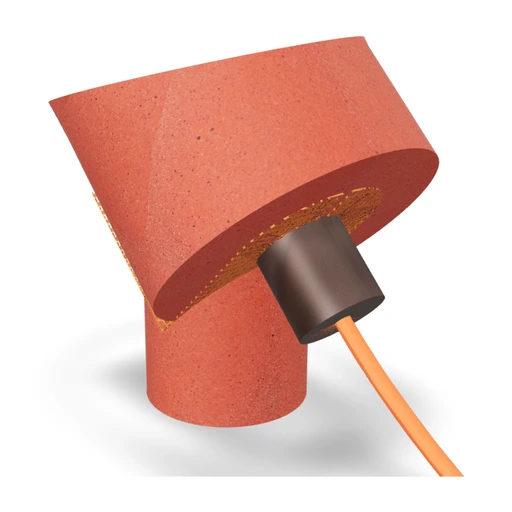
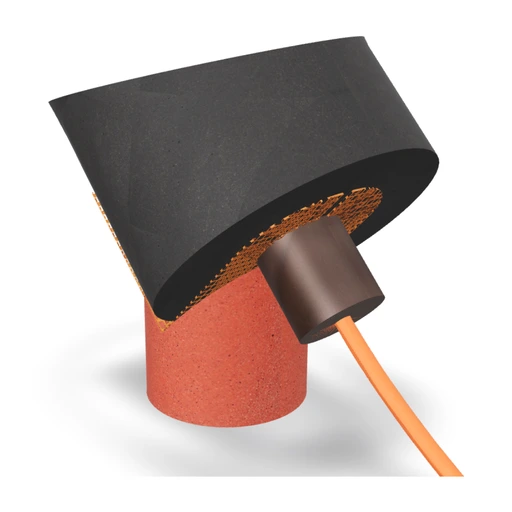
feat(configurateur): remet l'abat-jour en Wasterial - Coquilles de moules (config 03)
Reintroduit sur demande explicite le split abat-jour/pied de la config 03,
annule plus tot faute de citation retrouvee dans l'historique de
conversation. Abat-jour en Wasterial - Coquilles de moules (blackConcrete),
pied inchange en Wasterial - Brique - deux PartFinish distincts.
materialsSummary et alt suivent. Assemblage (corten), douille (aluminium
rouille) et cable (orange) inchanges.

Vignette regeneree pour la seule config 03 - les cinq autres restent
identiques a l'octet pres (verifie par diff).

Changed region(s): [[0.0938, 0.0625, 0.875, 0.625]]

diff --git a/data/product.ts b/data/product.ts
@@ -188,14 +188,18 @@ export const variants: ProductVariant[] = [
     id: "brique-aluminium",
     index: "03",
     name: "Terracotta",
-    materialsSummary: "Wasterial® - Brique · Acier corten",
+    materialsSummary: "Wasterial® - Coquilles de moules · Acier corten",
     accent: "#a8371f",
     accentOnDark: "#d9663f",
+    // Abat-jour : Wasterial® - Coquilles de moules (seule cette pièce — le
+    // pied garde la brique, voir `base` plus bas ; ce sont deux PartFinish
+    // distincts, pas un texturage partagé comme avant). Confirmé explicitement
+    // après un premier revers faute de citation retrouvée dans l'historique.
     shade: {
-      label: "Wasterial® - Brique",
-      color: "#9c4a39",
-      material: "brick",
-      textureImage: "/textures/swatch/brique.webp",
+      label: "Wasterial® - Coquilles de moules",
+      color: "#1a1a1c",
+      material: "blackConcrete",
+      textureImage: "/textures/swatch/westerial-coquilles-moules.webp",
     },
     // Couleur mesurée : moyenne RVB de tole-acier-corten.jpg (#a4530c), pas
     // devinée à l'œil.
@@ -228,7 +232,7 @@ export const variants: ProductVariant[] = [
     description:
       "La terre cuite chaude réveille l'aluminium froid. Une matière qui garde la mémoire du feu.",
     image: "/images/variants/brique-aluminium.webp",
-    alt: "Lampe Noir Minéral en Wasterial® - Brique avec pièce d'assemblage en acier corten.",
+    alt: "Lampe Noir Minéral : abat-jour en Wasterial® - Coquilles de moules, pied en Wasterial® - Brique et pièce d'assemblage en acier corten.",
   },
   {
     id: "verre-bouteille-inox",

diff --git a/tests/materials.test.ts b/tests/materials.test.ts
@@ -25,7 +25,7 @@ const EXPECTED: Record<string, Record<(typeof PARTS)[number], MaterialKind>> = {
     cable: "fabric",
   },
   "brique-aluminium": {
-    shade: "brick",
+    shade: "blackConcrete",
     assembly: "corten",
     base: "brick",
     cable: "fabric",
